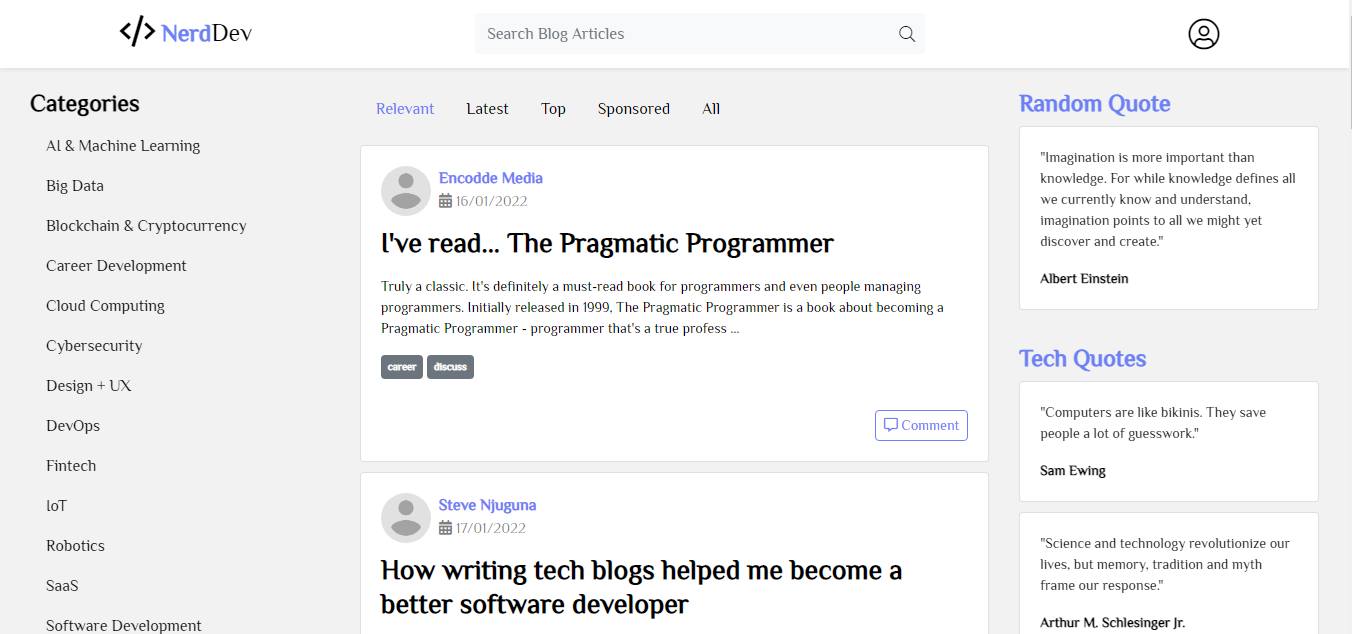
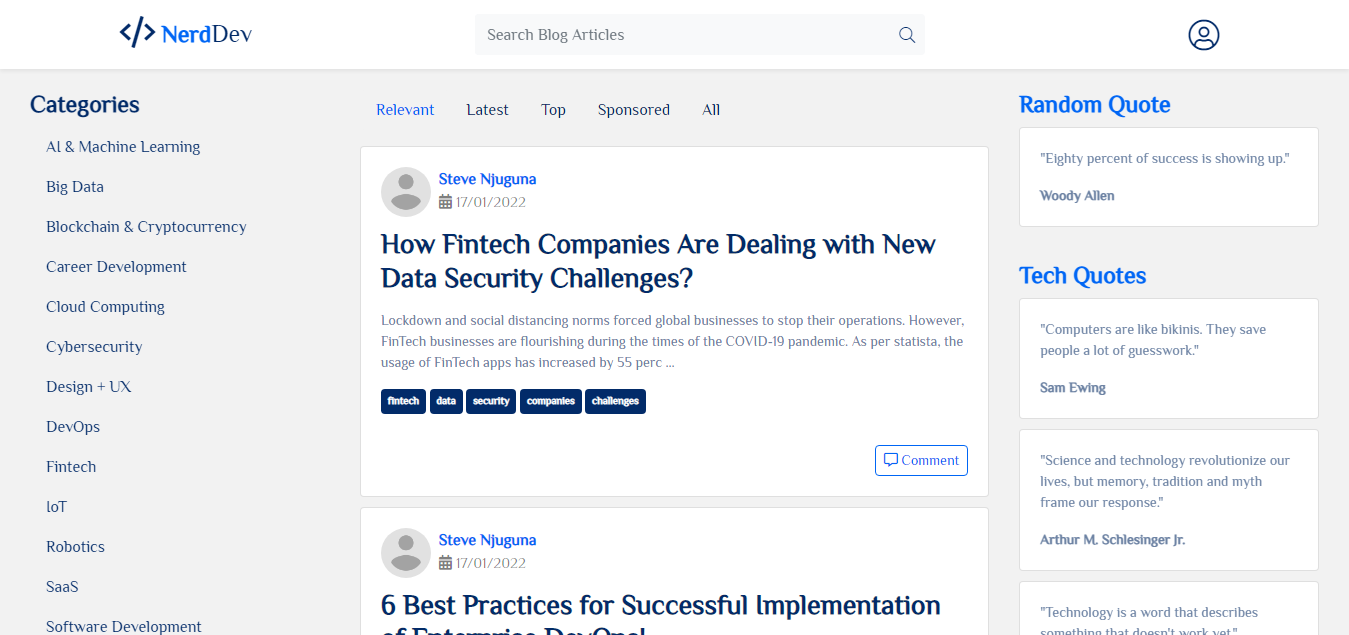
Changed screenshot & typos in styling

diff --git a/app/static/assets/css/style.css b/app/static/assets/css/style.css
@@ -403,15 +403,15 @@ a:hover {
 }
 
 .btn-outline-danger {
-    color: #dd022b690;
-    border-color: #dd022b690;
+    color: #022b69;
+    border-color: #022b69;
 	border-radius: .25rem;
 }
 
 .btn-outline-danger:hover {
     color: #fff;
-    background-color: #dd022b690;
-	border-color: #dd022b690;
+    background-color: #022b69;
+	border-color: #022b69;
 	border-radius: .25rem;
 }
 
@@ -545,30 +545,30 @@ a:hover {
 }
 
 .text-danger{
-	color: #dd022b690!important;
+	color: #022b69!important;
 }
 
 .post-form .btn-danger{
 	color: #fff;
-    background-color: #dd022b690!important;
+    background-color: #022b69!important;
 	border-radius: .25rem;
 }
 
 .post-form .btn-danger:hover{
 	color: #fff;
-    background-color: #dd022b690!important;
+    background-color: #022b69!important;
 	border-radius: .25rem;
 }
 
 .btn-danger{
 	color: #fff;
-    background-color: #dd022b690!important;
+    background-color: #022b69!important;
 	border-radius: .25rem;
 }
 
 .btn-danger:hover{
 	color: #fff;
-    background-color: #dd022b690!important;
+    background-color: #022b69!important;
 	border-radius: .25rem;
 }
 
